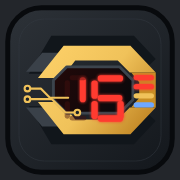
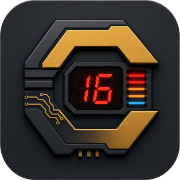
Use transparent Calcumaker PNG render

diff --git a/index.html b/index.html
@@ -14,7 +14,7 @@
 <meta name="twitter:card" content="summary_large_image" />
 <meta name="theme-color" content="#14161a" />
 
-<link rel="icon" href="assets/favicon.svg" type="image/svg+xml" />
+<link rel="icon" href="assets/calcumaker-mark.png" type="image/png" />
 <link rel="apple-touch-icon" href="assets/apple-touch-icon.png" />
 <link rel="stylesheet" href="assets/styles.css" />
 </head>
@@ -24,7 +24,7 @@
 <header class="nav">
   <div class="wrap nav-inner">
     <a class="brand" href="/">
-      <img class="brand-mark" src="assets/calcumaker-mark.svg" alt="" width="512" height="512" />
+      <img class="brand-mark" src="assets/calcumaker-mark.png" alt="" width="1254" height="1254" />
       <b>CALCUMAKER</b>
     </a>
     <nav aria-label="Primary">
@@ -42,8 +42,8 @@
   <!-- ---------------------------------------------------------------- hero -->
   <section class="hero">
     <div class="wrap hero-inner">
-      <img class="hero-mark" src="assets/calcumaker-mark.svg" width="512" height="512"
-           alt="The Calcumaker mark: a seven-segment C inside a hexagon." />
+      <img class="hero-mark" src="assets/calcumaker-mark.png" width="1254" height="1254"
+           alt="The Calcumaker mark: a gold hardware badge with a red seven-segment 16." />
       <p class="tagline">Every base. Every digit.</p>
       <h1>A programmer's RPN calculator<br /><em>with a stack you can see.</em></h1>
       <p class="lede">

diff --git a/BRAND.md b/BRAND.md
@@ -26,6 +26,7 @@ The colors reuse the existing emulator language:
 
 - `assets/calcumaker-logo.svg` - primary horizontal lockup for dark backgrounds
 - `assets/calcumaker-logo-light.svg` - horizontal lockup for light backgrounds
+- `assets/calcumaker-mark.png` - active transparent PNG site mark
 - `assets/calcumaker-mark.svg` - square app/icon mark
 - `assets/calcumaker-mark-mono.svg` - one-color PCB silk / engraving mark
 - `assets/calcumaker-logo-sheet.svg` - concept sheet with rationale and variants
@@ -49,21 +50,21 @@ The colors reuse the existing emulator language:
 
 | Asset | Where |
 |---|---|
-| `calcumaker-mark.svg` | nav mark (30px) and hero mark; rasterised to `apple-touch-icon.png` — **contains `16`** |
-| `favicon.svg` | tab icon — **contains `16`** |
+| `calcumaker-mark.png` | active nav mark, hero mark, and PNG favicon — **contains `16`** |
+| `calcumaker-mark.svg` | **not used on the site**: weaker vector trace draft — **contains `16`** |
+| `favicon.svg` | not used on the site; SVG favicon draft — **contains `16`** |
 | `calcumaker-logo.svg` | **not used on the site**: appends `16` to the wordmark (device lockup) |
 | `calcumaker-logo-light.svg` | not used on the site (dark-only); also a device lockup |
 | `calcumaker-mark-mono.svg` | not used on the site; PCB silk / engraving |
 | `calcumaker-logo-sheet.svg` | concept sheet, documentation only |
 
 `assets/apple-touch-icon.png` is generated — `npm run icons` re-renders it from
-`calcumaker-mark.svg`. Don't hand-edit it.
+`calcumaker-mark.png`. Don't hand-edit it.
 
 Two things worth knowing about the assets:
 
-1. **The full mark is reduced for the favicon.** `favicon.svg` keeps the core
-   gold shell and red `16`, but drops the trace and annunciator detail that turns
-   into noise at tab size.
+1. **The active mark is a transparent PNG.** The SVG trace attempts are retained
+   as drafts, but the site uses the original image-model render for now.
 2. **`calcumaker-mark-mono.svg` hardcodes `fill="#111820"`.** Switching it to
    `currentColor` would make it reusable (silk, engraving, inline on any
    background) without editing the file.

diff --git a/LOGO_CONCEPT.md b/LOGO_CONCEPT.md
@@ -1,9 +1,9 @@
 # Calcumaker Logo Concept
 
-This branch adds the original image-model render for review alongside the
-current SVG brand assets. It is concept art, not a production-ready logo file.
+This branch uses the original image-model render as the active site mark while
+we avoid the weaker SVG trace attempts. The PNG is transparent around the mark.
 
-![Calcumaker logo concept](assets/concepts/calcumaker-logo-concept-ai.png)
+![Calcumaker logo concept](assets/calcumaker-mark.png)
 
 ## Prompt Summary
 

diff --git a/README.md b/README.md
@@ -15,8 +15,8 @@ hardware would.
 
 ```
 index.html
-assets/  styles.css · main.js · calcumaker-{logo,mark}*.svg · favicon.svg
-         apple-touch-icon.png (generated) · emulator-*.png
+assets/  styles.css · main.js · calcumaker-mark.png · calcumaker-{logo,mark}*.svg
+         favicon.svg · apple-touch-icon.png (generated) · emulator-*.png
 BRAND.md   logo direction + where each asset is used
 ```
 
@@ -57,7 +57,7 @@ using CC for software, and you don't CC-license a logo.
 |---|---|---|
 | **Code** | `index.html` markup/scripts, `assets/main.js`, `assets/styles.css`, `scripts/`, `.github/` | [MIT](LICENSE) |
 | **Content** | prose, the Markdown files, `assets/emulator-*.png` | [CC BY-SA 4.0](LICENSE-CONTENT) |
-| **Brand** | the Calcumaker name and wordmark, `assets/calcumaker-{logo,mark}*.svg`, `assets/favicon.svg`, `assets/apple-touch-icon.png` | **All rights reserved** |
+| **Brand** | the Calcumaker name and wordmark, `assets/calcumaker-mark.png`, `assets/calcumaker-{logo,mark}*.svg`, `assets/favicon.svg`, `assets/apple-touch-icon.png` | **All rights reserved** |
 
 Brand assets are deliberately *not* open-licensed: copyright licences don't grant
 trademark rights, and a freely licensed mark lets anyone imply endorsement. Fork